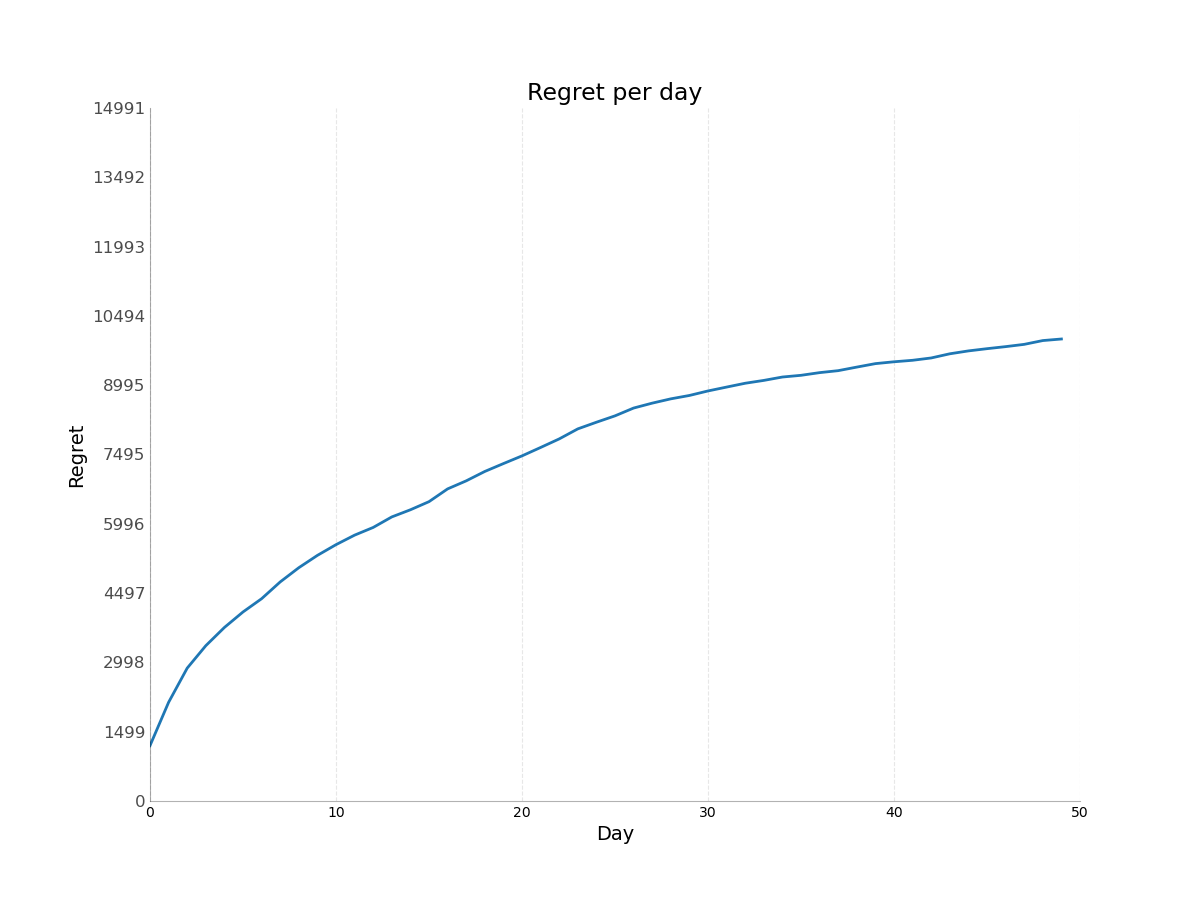
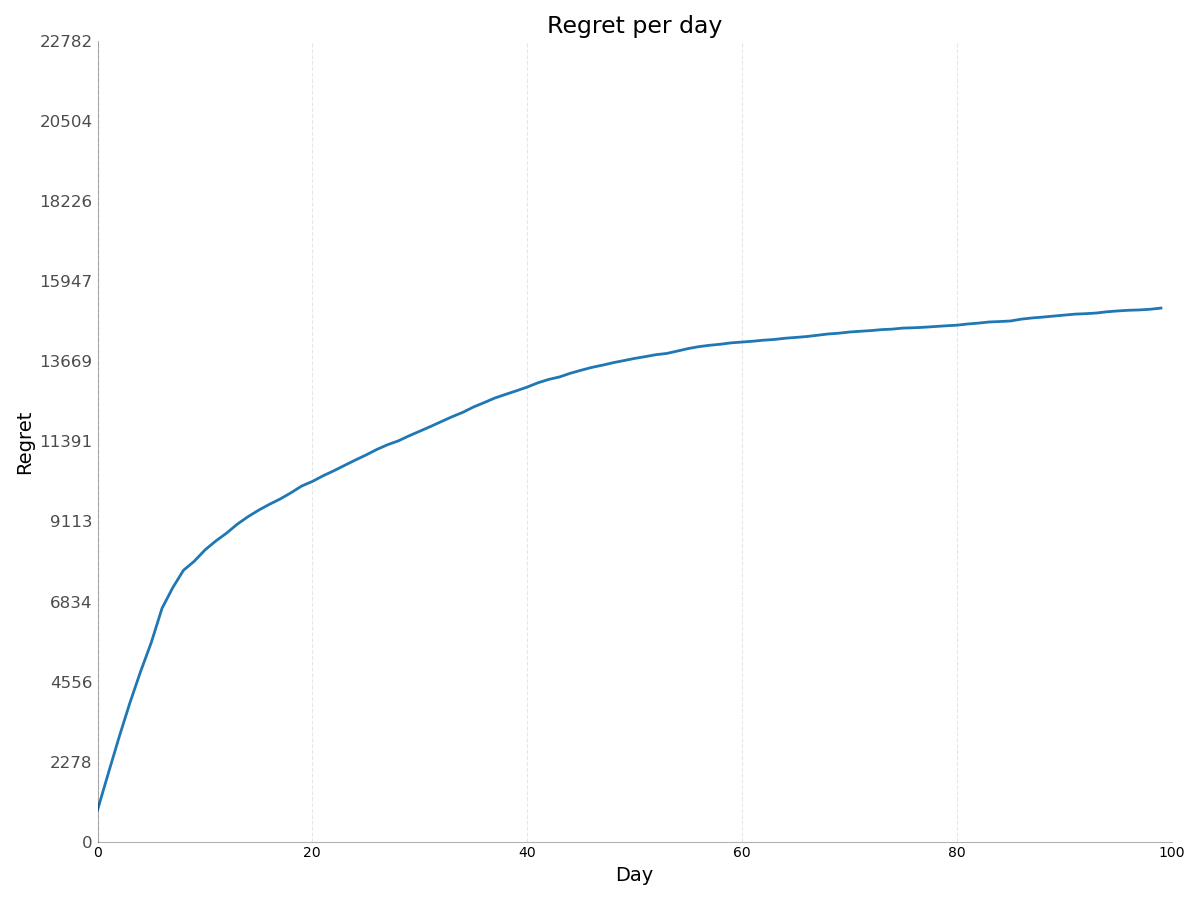
- Added normalization in ch. 2 - Moved computation of ideal arm outside of main loop in ch. 2

diff --git a/2. GPTS Learner/experiment.py b/2. GPTS Learner/experiment.py
@@ -8,7 +8,25 @@ import numpy as np
 from matplotlib import pyplot as plt
 
 
-number_of_experiments = 10
+def compute_ideal(scenarios):
+    # Compute the real value of the tru function
+    real_values = []
+    for scenario in scenarios:
+        real_values.append(scenario.y[:number_of_budgets])
+
+    # FIND IDEAL ARMS (to compute regret)
+    # Given the real value of the true function, find the ideal combination of arms
+    arms = ideal_optimizer.optimize(real_values)
+
+    # Compute the ideal optimal result
+    result = 0
+    for index, scenario in enumerate(scenarios):
+        result += scenario.y[arms[index]]
+
+    return result
+
+
+number_of_experiments = 5
 
 # The budget cap and the possible daily budget that can be set
 budget_cap = 27000
@@ -17,7 +35,7 @@ daily_budgets = np.linspace(5000, budget_cap, endpoint=True, num=45).astype(int)
 # The number of possible budgets that can be allocated to each subcampaign
 number_of_budgets = 11
 
-time_horizon = 50
+time_horizon = 100
 
 regret = []
 for e in range(0, number_of_experiments):
@@ -44,6 +62,9 @@ for e in range(0, number_of_experiments):
     optimal_rewards_per_round = np.zeros(time_horizon)
     ideal_rewards_per_round = np.zeros(time_horizon)
 
+    # The ideal arms to pull
+    ideal_result = compute_ideal(scenarios)
+
     for t in tqdm(range(0, time_horizon)):
 
         # Sample the Gaussian Process for each subcampaign
@@ -51,22 +72,11 @@ for e in range(0, number_of_experiments):
         for subcampaign in subcampaigns:
             sampled_values.append(subcampaign.sample_values())
 
-        # Compute the real value of the tru function
-        real_values = []
-        for scenario in scenarios:
-            real_values.append(scenario.y[:number_of_budgets])
-
         # FIND OPTIMAL ARMS
         # Find the best combination of arms to play at time t based on the sampling of the Gaussian Processes
         optimal_arms = optimizer.optimize(sampled_values)
         # The optimal result obtainable at time t by playing the optimal arms
         optimal_result = 0
-
-        # FIND IDEAL ARMS (to compute regret)
-        # Given the real value of the true function, find the ideal combination of arms
-        ideal_arms = ideal_optimizer.optimize(real_values)
-        # The ideal result obtainable at time t
-        ideal_result = 0
 
         for sub_index in range(0, len(subcampaigns)):
             # Sample the true function to get a reward for the played arm
@@ -76,12 +86,10 @@ for e in range(0, number_of_experiments):
             # Update the model based on the result of the played arm
             subcampaigns[sub_index].update(optimal_arms[sub_index], reward)
 
-            # Compute the ideal optimal result
-            ideal_result += scenarios[sub_index].y[ideal_arms[sub_index]]
-
         optimal_rewards_per_round[t] = optimal_result
         ideal_rewards_per_round[t] = ideal_result
-        # print("[", t, "]Optimal solution:", optimal_arms, " (", ideal_arms, ")",
+        # print("\n",
+        #       "[", t, "]Optimal solution:", optimal_arms, " (", ideal_arms, ")",
         #       "with a result of: ", round(optimal_result, 2), " (", round(ideal_result, 2), ").")
 
     regret.append(ideal_rewards_per_round - optimal_rewards_per_round)

diff --git a/2. GPTS Learner/SW_GPTS_Learner.py b/2. GPTS Learner/SW_GPTS_Learner.py
@@ -2,12 +2,12 @@ import numpy as np
 from matplotlib import pyplot as plt
 
 from sklearn.gaussian_process import GaussianProcessRegressor
-from sklearn.gaussian_process.kernels import RBF, ConstantKernel as C
+from sklearn.gaussian_process.kernels import Matern, WhiteKernel, RBF, ConstantKernel as C
 
 
 class SW_GPTS_Learner:
     
-    def __init__(self, arms, sigma=10, window_length=0):
+    def __init__(self, arms, sigma=5, window_length=0):
         self.arms = arms
         self.n_arms = len(arms)
         self.means = np.zeros(self.n_arms)
@@ -18,11 +18,16 @@ class SW_GPTS_Learner:
 
         self.window_length = window_length
 
-        alpha = 10.0
-        kernel = C(1.0, (1e-5, 1e5)) * RBF(1.0, (1e-5, 1e5))
+        alpha = 1.5
+
+        theta = 1
+        l = 1
+
+        kernel = C(theta, (1e-5, 1e5)) * RBF(l, (1e-10, 1e10))
+
         self.gp = GaussianProcessRegressor(kernel=kernel,
-                                           alpha=alpha**2,
-                                           normalize_y=False,
+                                           alpha=alpha ** 2,
+                                           normalize_y=True,
                                            n_restarts_optimizer=10)
 
     def sample_values(self):
@@ -42,7 +47,7 @@ class SW_GPTS_Learner:
         arm_index (int): the index of the arm that has been pulled
         reward (float): the reward received by pulling the arm
         """
-        self.pulled_arms = np.append(self.pulled_arms, self.arms[arm_index])
+        self.pulled_arms = np.append(self.pulled_arms, arm_index)
         self.collected_rewards = np.append(self.collected_rewards, reward)
 
         if len(self.pulled_arms) > self.window_length:
@@ -56,8 +61,11 @@ class SW_GPTS_Learner:
         x = np.atleast_2d(self.pulled_arms).T
         y = self.collected_rewards
 
+        if len(y) == 1:
+            return
+
         self.gp.fit(x, y)
-        self.means, self.sigmas = self.gp.predict(np.atleast_2d(self.arms).T, return_std=True)
+        self.means = self.gp.predict(np.array(list(np.ndindex(len(self.arms)))))
         self.sigmas = np.maximum(self.sigmas, 1e-2)
 
     def update(self, arm_index, reward):
